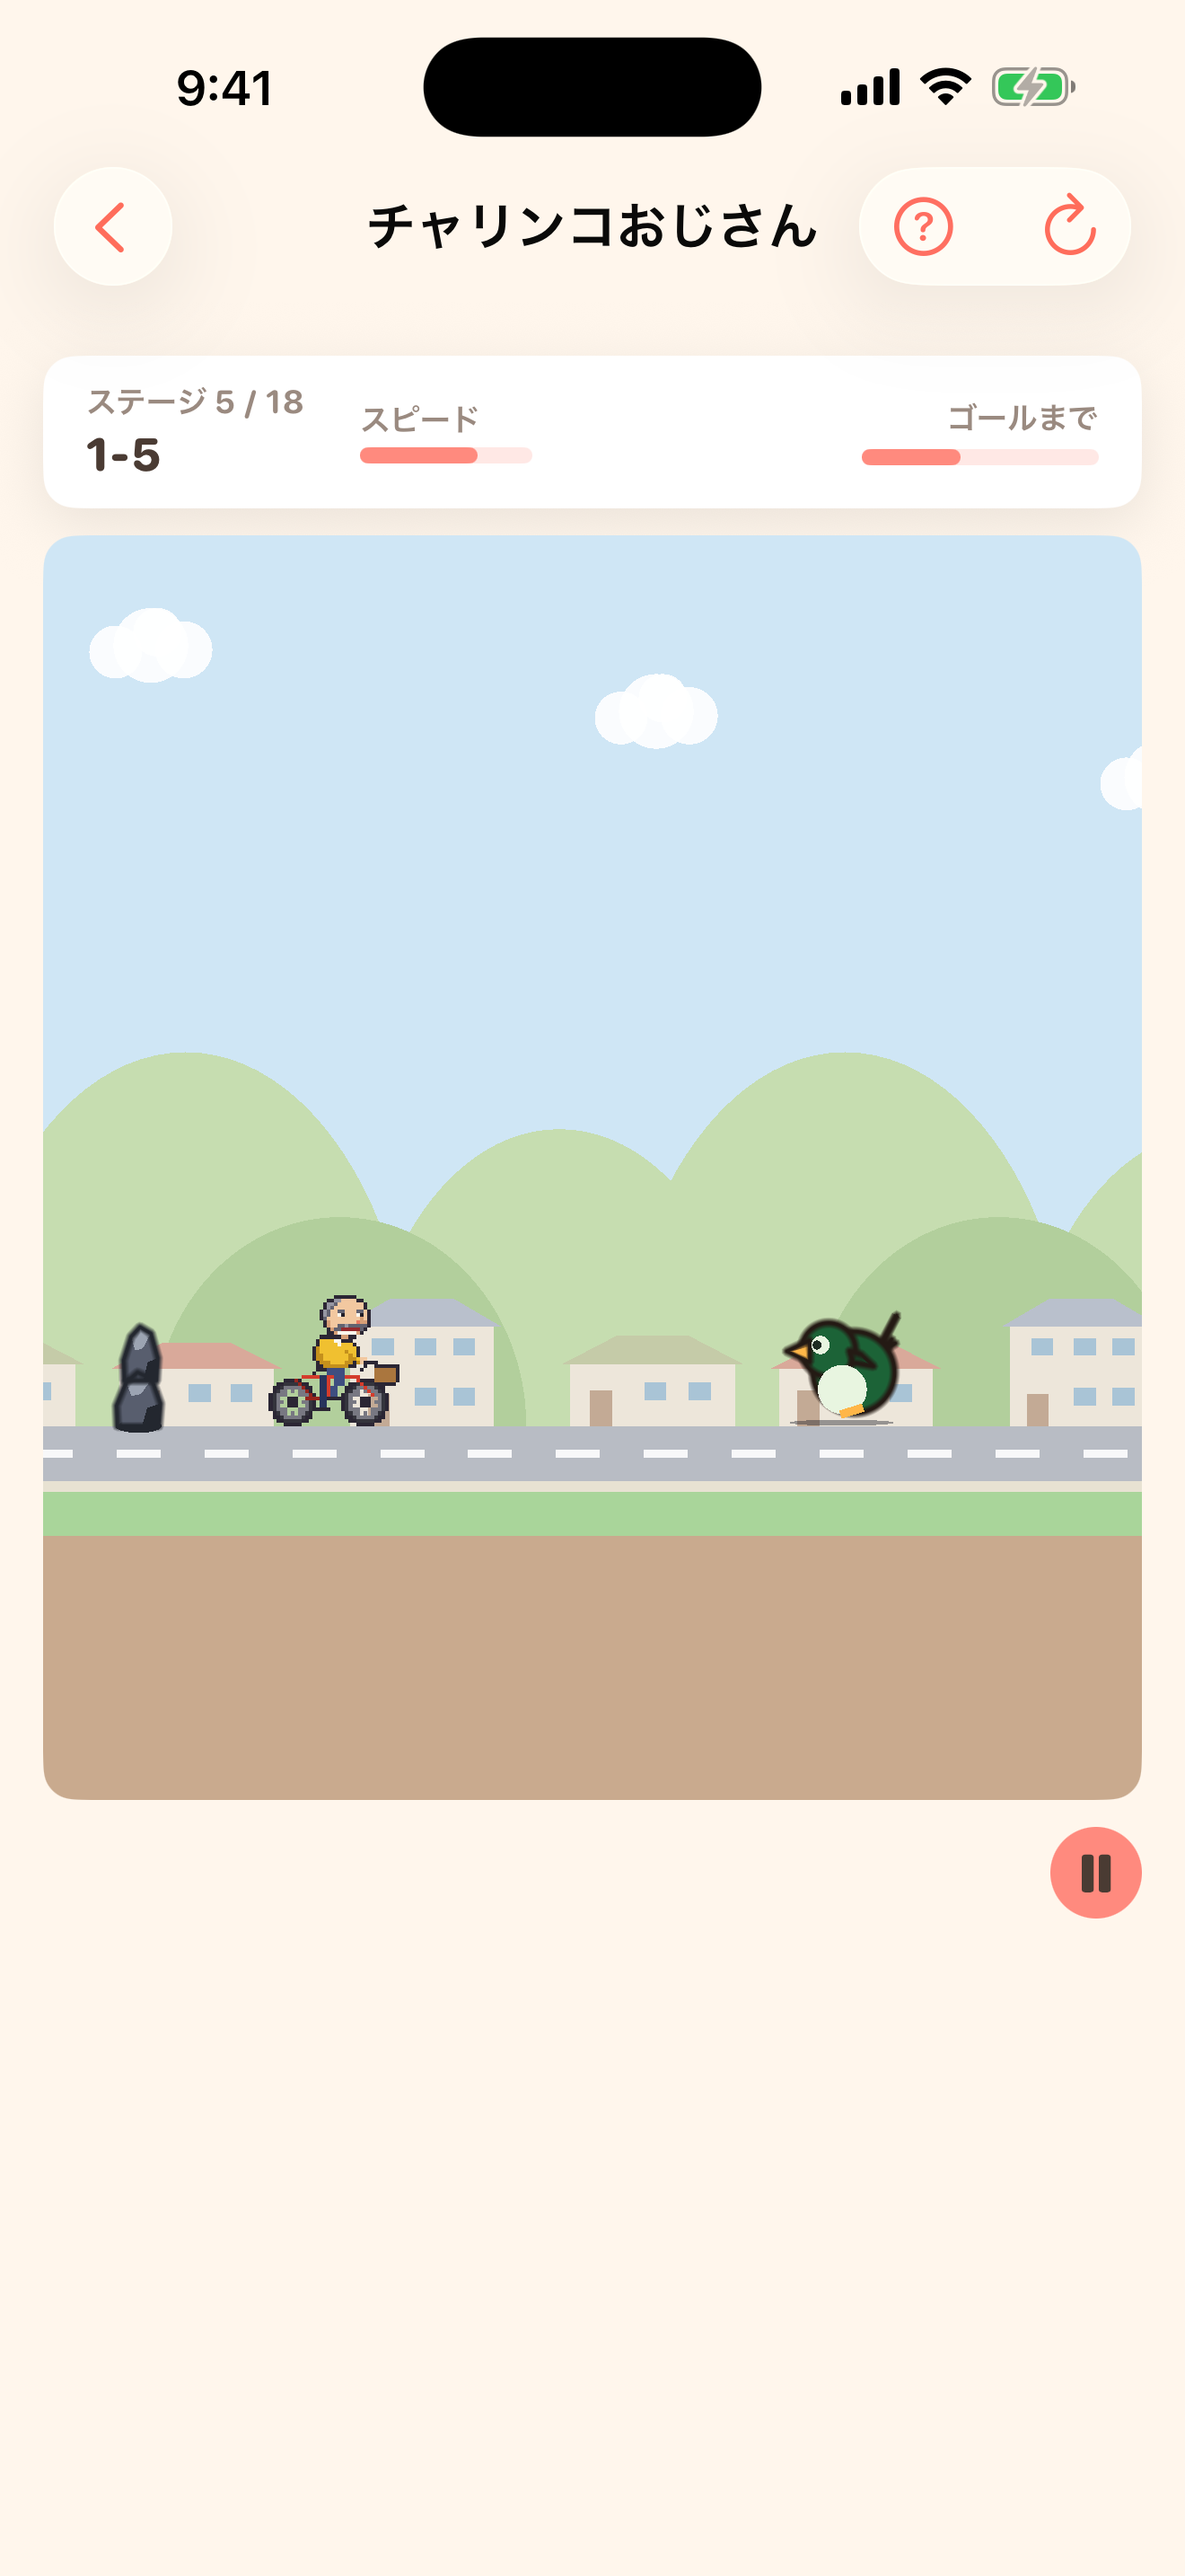
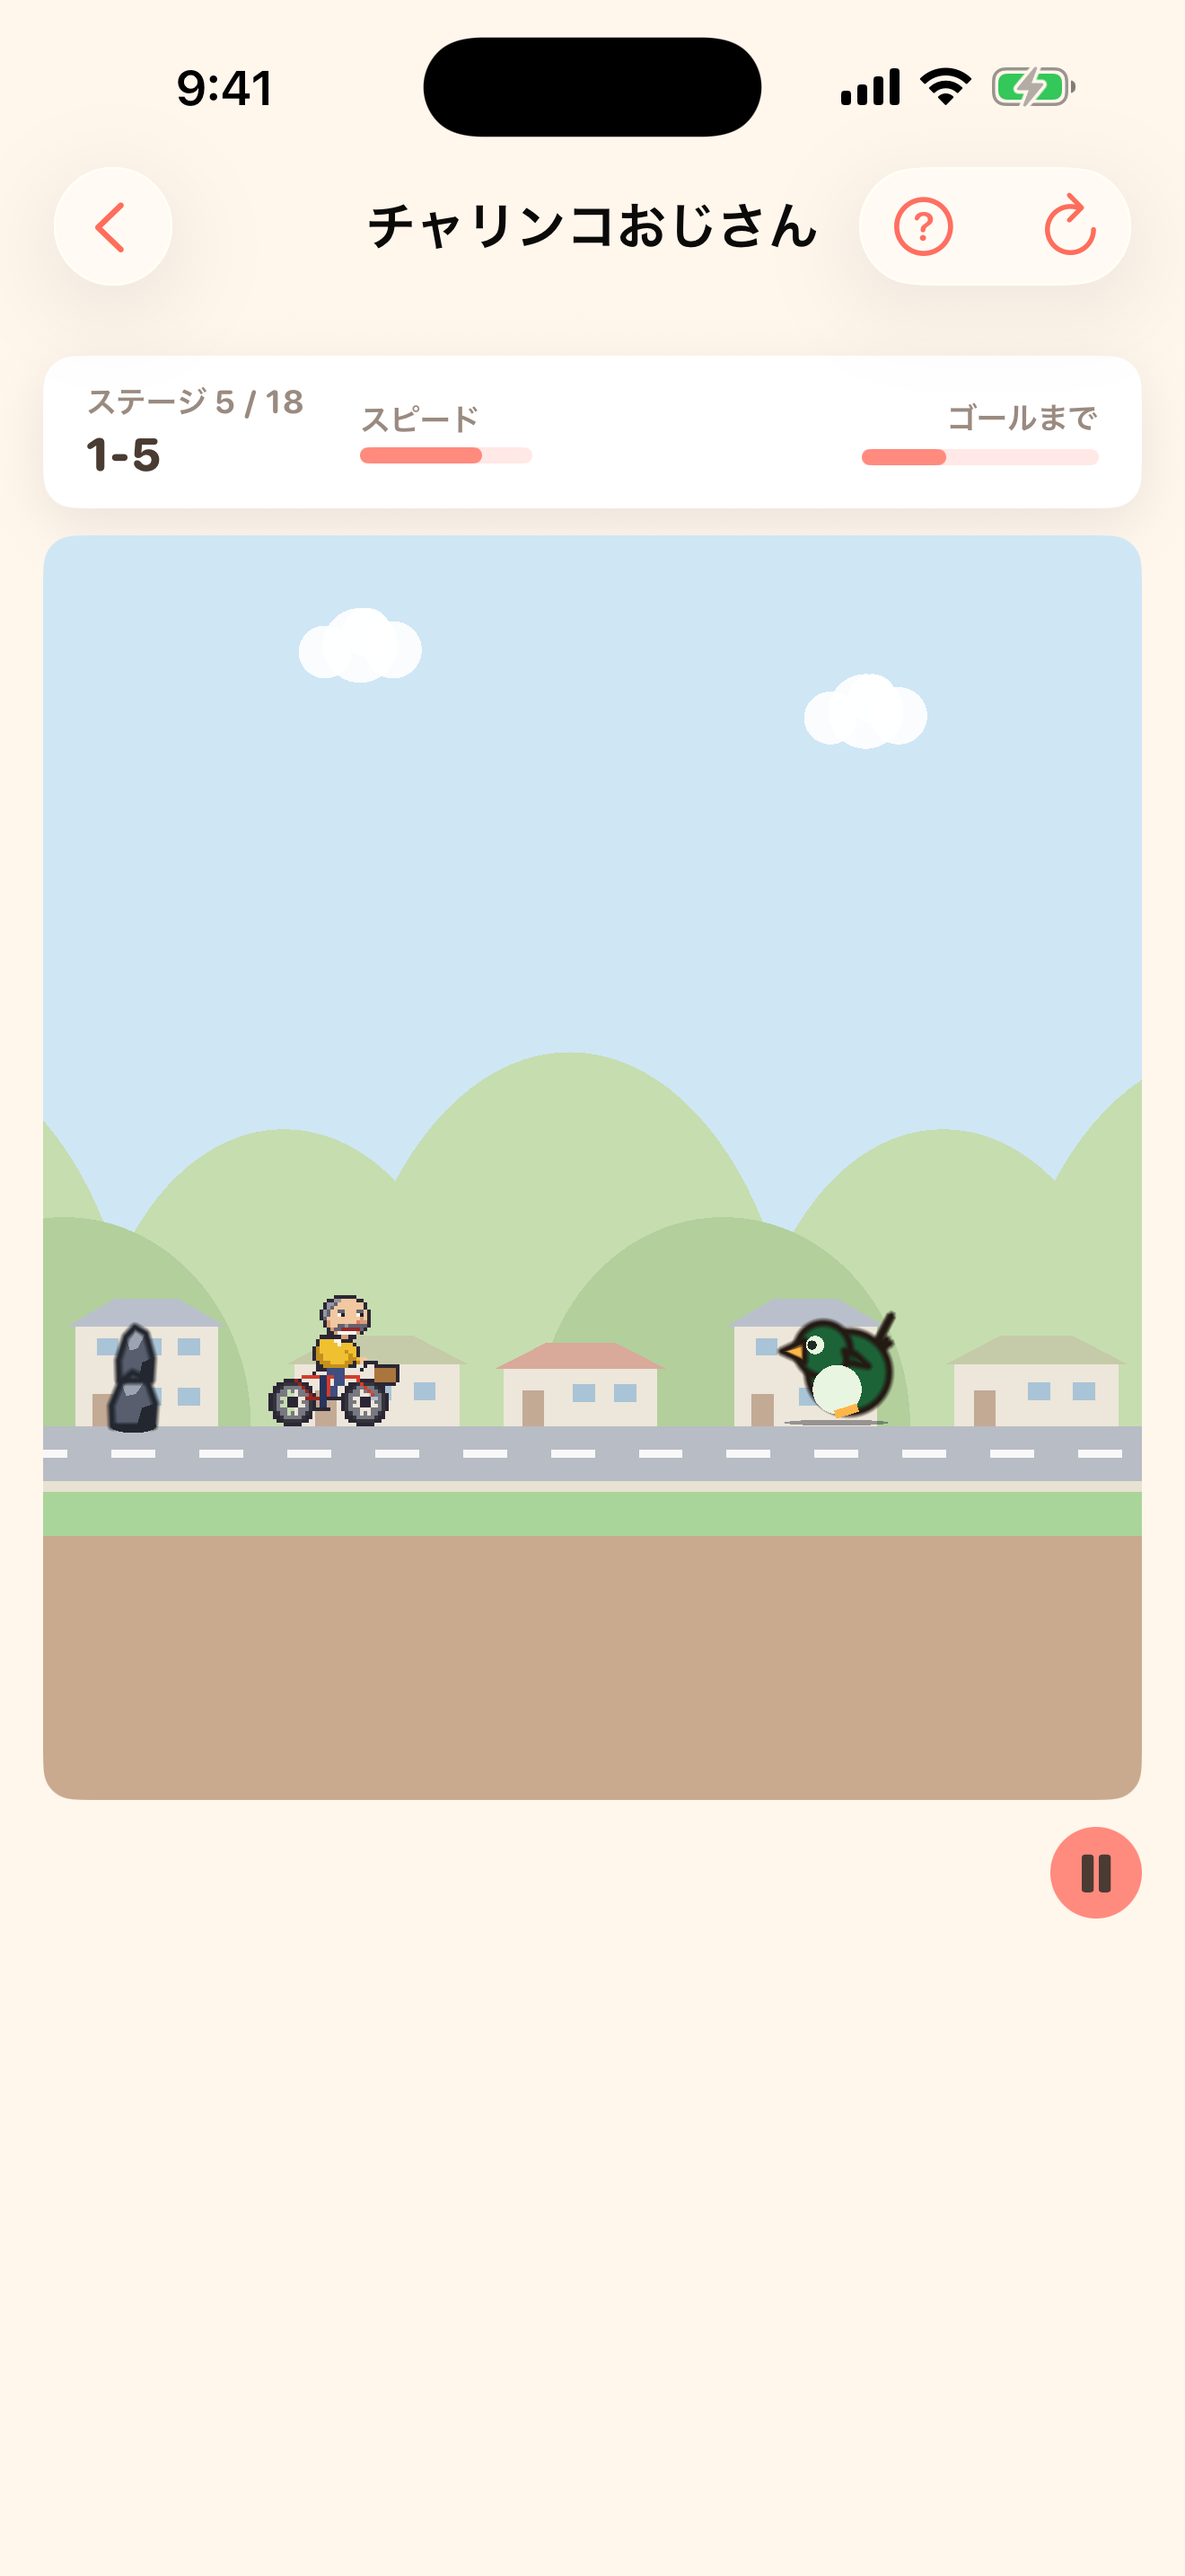
docs(aso): release/v1.1.5 の進みに合わせて 05-runner を撮り直し、関所を更新する
撮影中に release/v1.1.5 が 8bfd0e7 → a606d9a まで進んだため:

- #991（全18面の障害を増やす）で `RunnerStage.swift` の面の定義が変わったので、
  影響を受ける `05-runner.png` だけ a606d9a で撮り直した（他の21枚は 8bfd0e7 のまま。
  同コミット範囲で触られたのは RunnerStage とそのテストと project.yml だけ）
- #992 で `MARKETING_VERSION` が 1.1.5（ビルド番号9）に上がったので、提出前の関所の
  「1.1.3 のまま」を実測済みのチェック済み項目に更新（提出直前の再確認コマンド付き）
- 「release ブランチはまだ動いているので、提出直前に UI・ステージ定義の変更を見て
  該当ゲームだけ撮り直す」旨を §11 に追記

Claude-Session: https://claude.ai/code/session_01JgCJCvUMqB6Kcdt1TRjijn

diff --git a/docs/aso/metadata-v1.1.5.md b/docs/aso/metadata-v1.1.5.md
@@ -326,11 +326,15 @@ PY
   > 入稿パックは main、実装は release ブランチにあるため、release ブランチ上ではパックが見つからず
   > 「入稿パックがまだありません」で exit 0 になる）。**上のコマンドを手で実行することが唯一の機械検証**。
 
-- [ ] **`project.yml` の `MARKETING_VERSION` が `1.1.5` になっている**。
-      **2026-09-16 時点では `release/v1.1.5` の値が `1.1.3` のまま**（main は `1.1.4`）で、
-      `bash Scripts/check-marketing-version.sh release/v1.1.5 <project.yml>` は落ちる。
-      **`release/v1.1.5` 向けの別 PR で `MARKETING_VERSION: "1.1.5"` と `CURRENT_PROJECT_VERSION` の更新が要る**
-      （本ファイルは `docs/` のみなので main 直・規程どおり PR を分けている）。
+- [x] **`project.yml` の `MARKETING_VERSION` が `1.1.5` になっている** —
+      **2026-09-16 に PR #992 で更新された**（`MARKETING_VERSION: "1.1.5"` / `CURRENT_PROJECT_VERSION: "9"`）。
+      本パックを書き始めた時点では `1.1.3` のままだったので、提出直前にもう一度見ること:
+
+      ```bash
+      git fetch origin release/v1.1.5
+      git show origin/release/v1.1.5:project.yml > /tmp/project-v115.yml
+      bash Scripts/check-marketing-version.sh release/v1.1.5 /tmp/project-v115.yml
+      ```
 - [ ] **【会長操作】Game Center の順位表を ASC に登録した**:
       `asobiba.runner.distance`（チャリンコおじさん エンドレス・**#792**）と
       スパイダーソリティアの最短タイム 1・2・4 スート（**#842**）。
@@ -485,7 +489,14 @@ PATH=/usr/bin:$PATH bash /tmp/v115/Scripts/capture-aso-screenshots.sh "$PWD/docs
   この枠を入稿10枚へ上げるときは先に `aso-demo-snapshots.py` に花札のデモ局面を足すこと。**
 - `22-settings` は v1.1.0 パック §9 の「⚠ 入稿しない」の判断を引き継ぐ。
 
-### 撮影条件（2026-09-16・`release/v1.1.5` の `8bfd0e7`）
+### 撮影条件（2026-09-16・`release/v1.1.5`）
+
+- **21枚は `8bfd0e7`**（`Merge pull request #990`）で撮った。
+- **`05-runner.png` だけ `a606d9a`**（`Merge pull request #993` = **#991「全18面の障害を増やす」**）で撮り直した。
+  撮影中に release ブランチが進み、**ステージ定義（`RunnerStage.swift` の `patterns`）が変わった**ため
+  ——チャリンコおじさんの絵だけはこの変更の影響を受ける。他の19本と設定画面は触られていないので撮り直していない。
+- ⚠ **release ブランチはまだ動いている**。提出直前に `git log origin/main..origin/release/v1.1.5` を見て、
+  **UI・ステージ定義に変更が入っていたら該当ゲームだけ撮り直す**こと。
 
 `docs/aso/screenshots/` の22枚は **iPhone 17 Pro Max（6.9インチ）= 1320×2868 px**、
 Debug ビルドを `-screenshotMode`（広告なし・ATT なし）で起動し、ステータスバーは 9:41 固定で撮影した。
